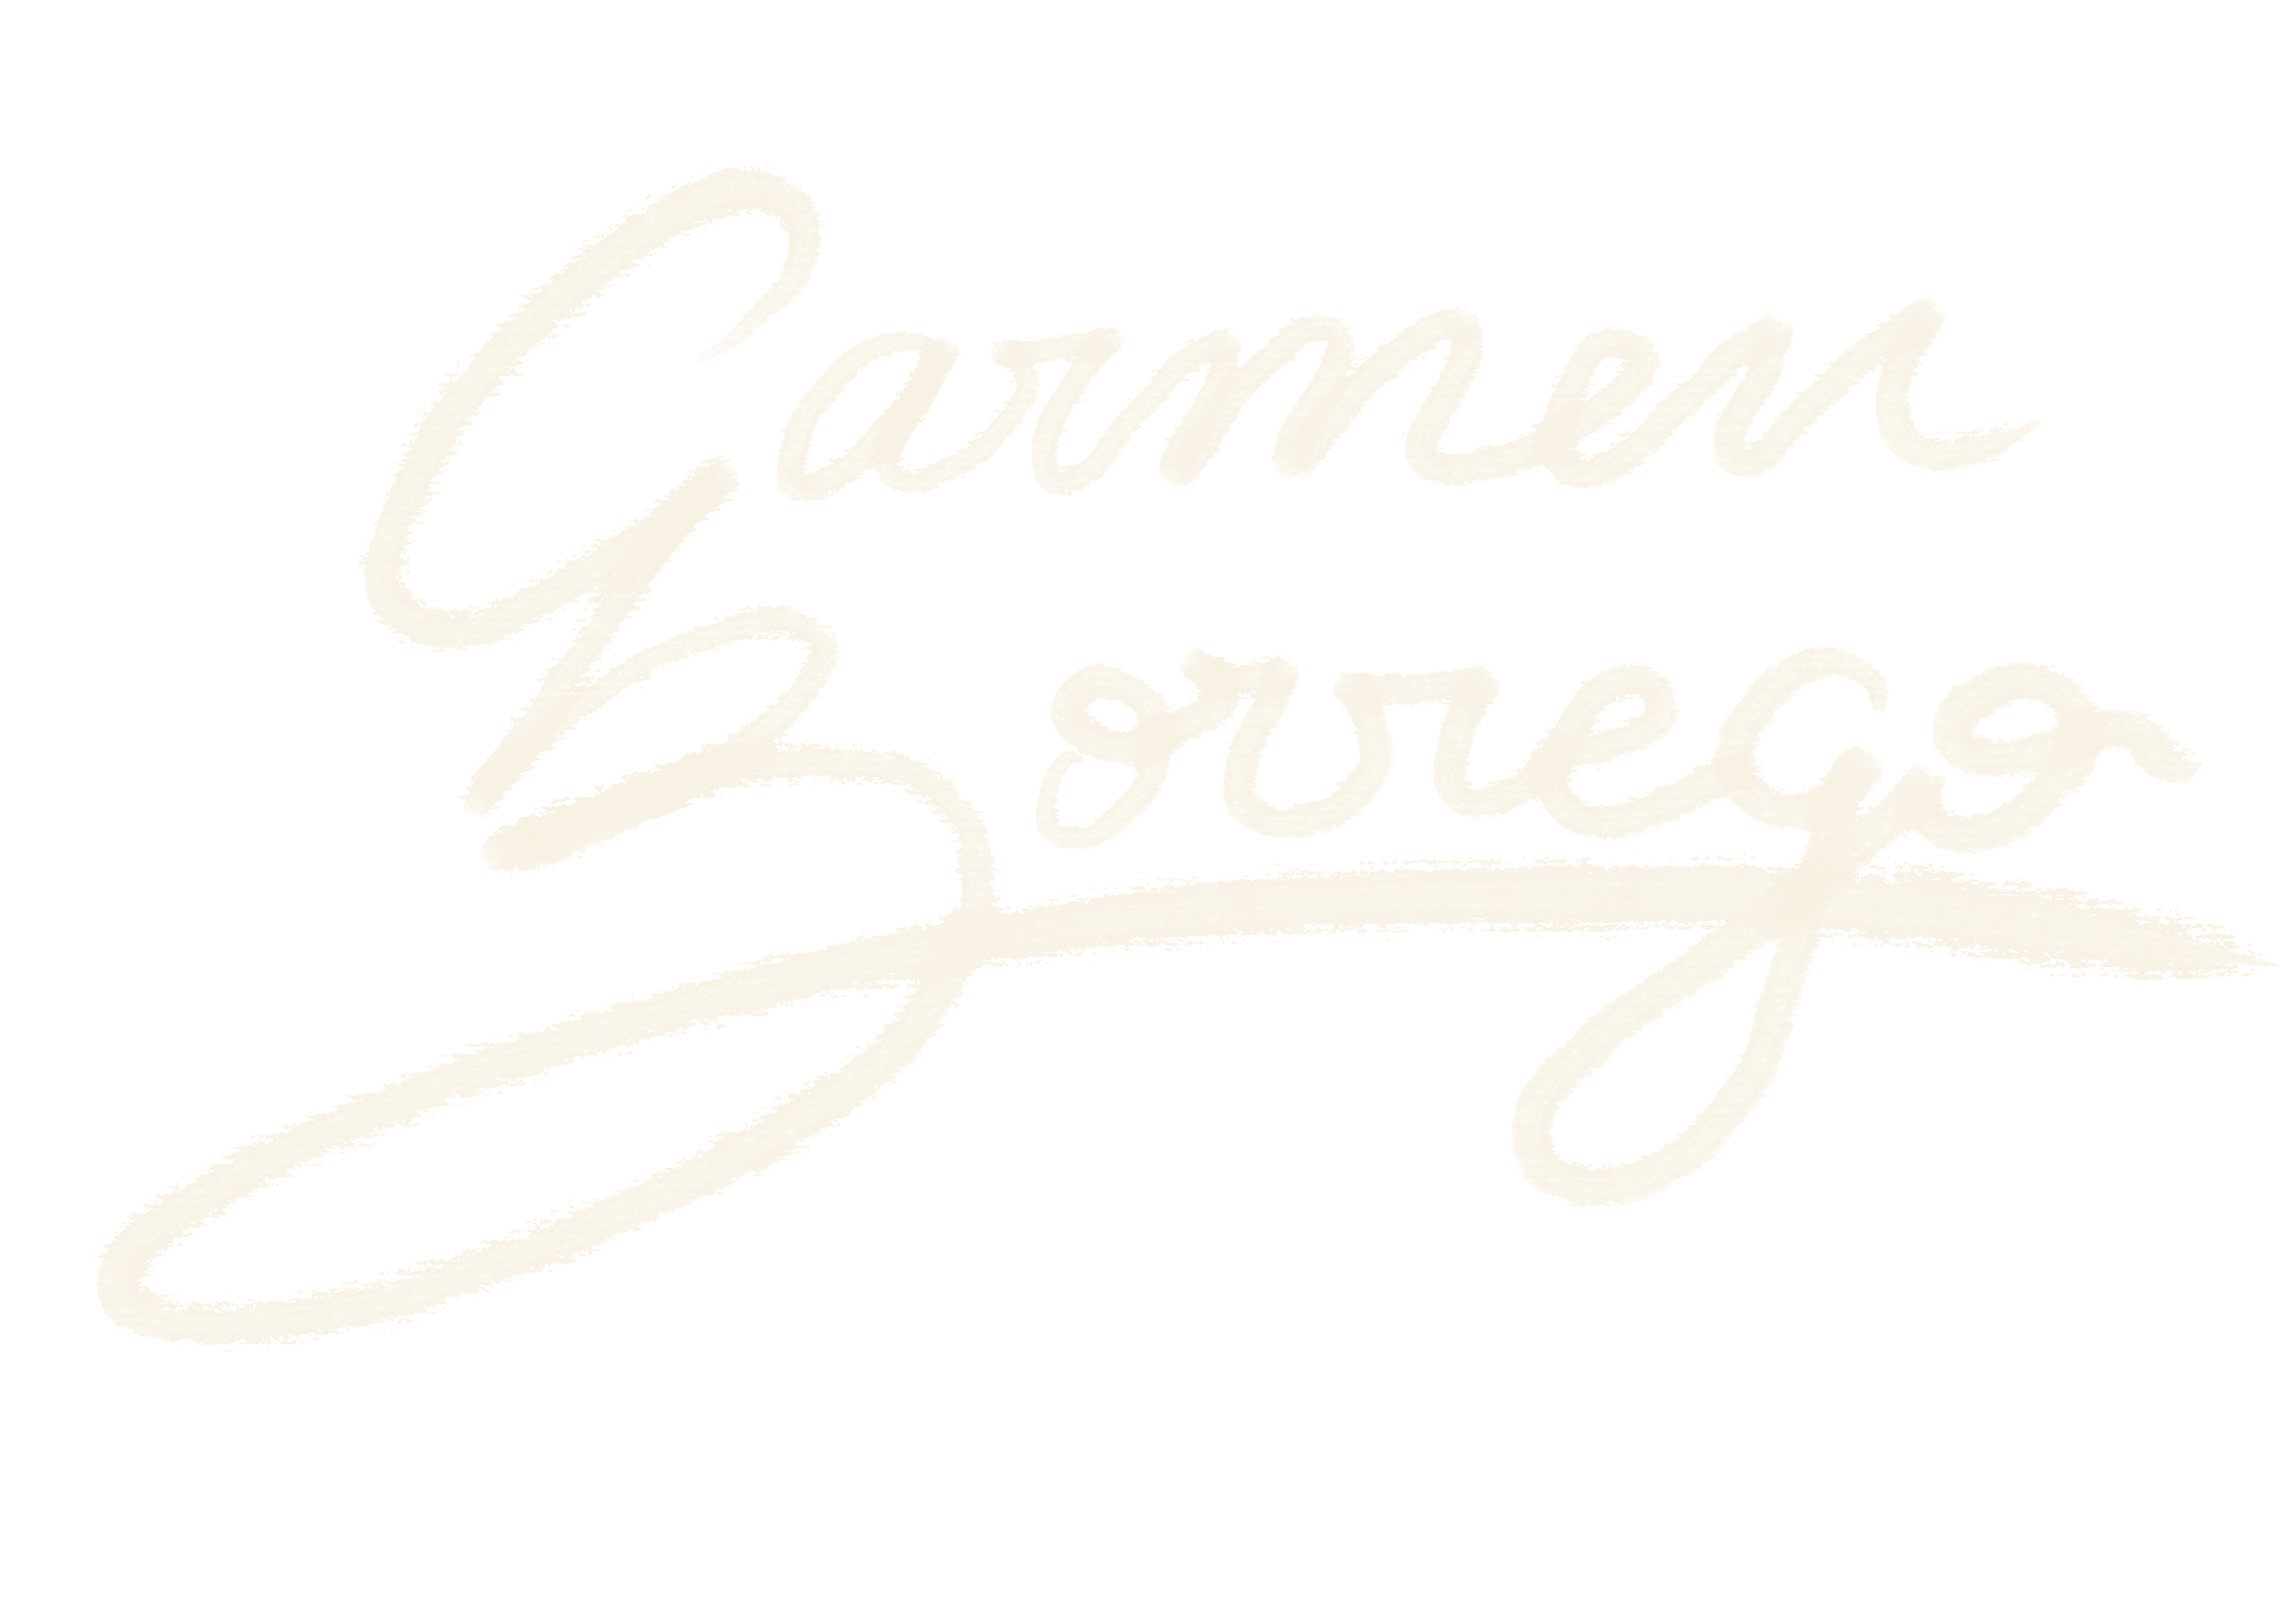
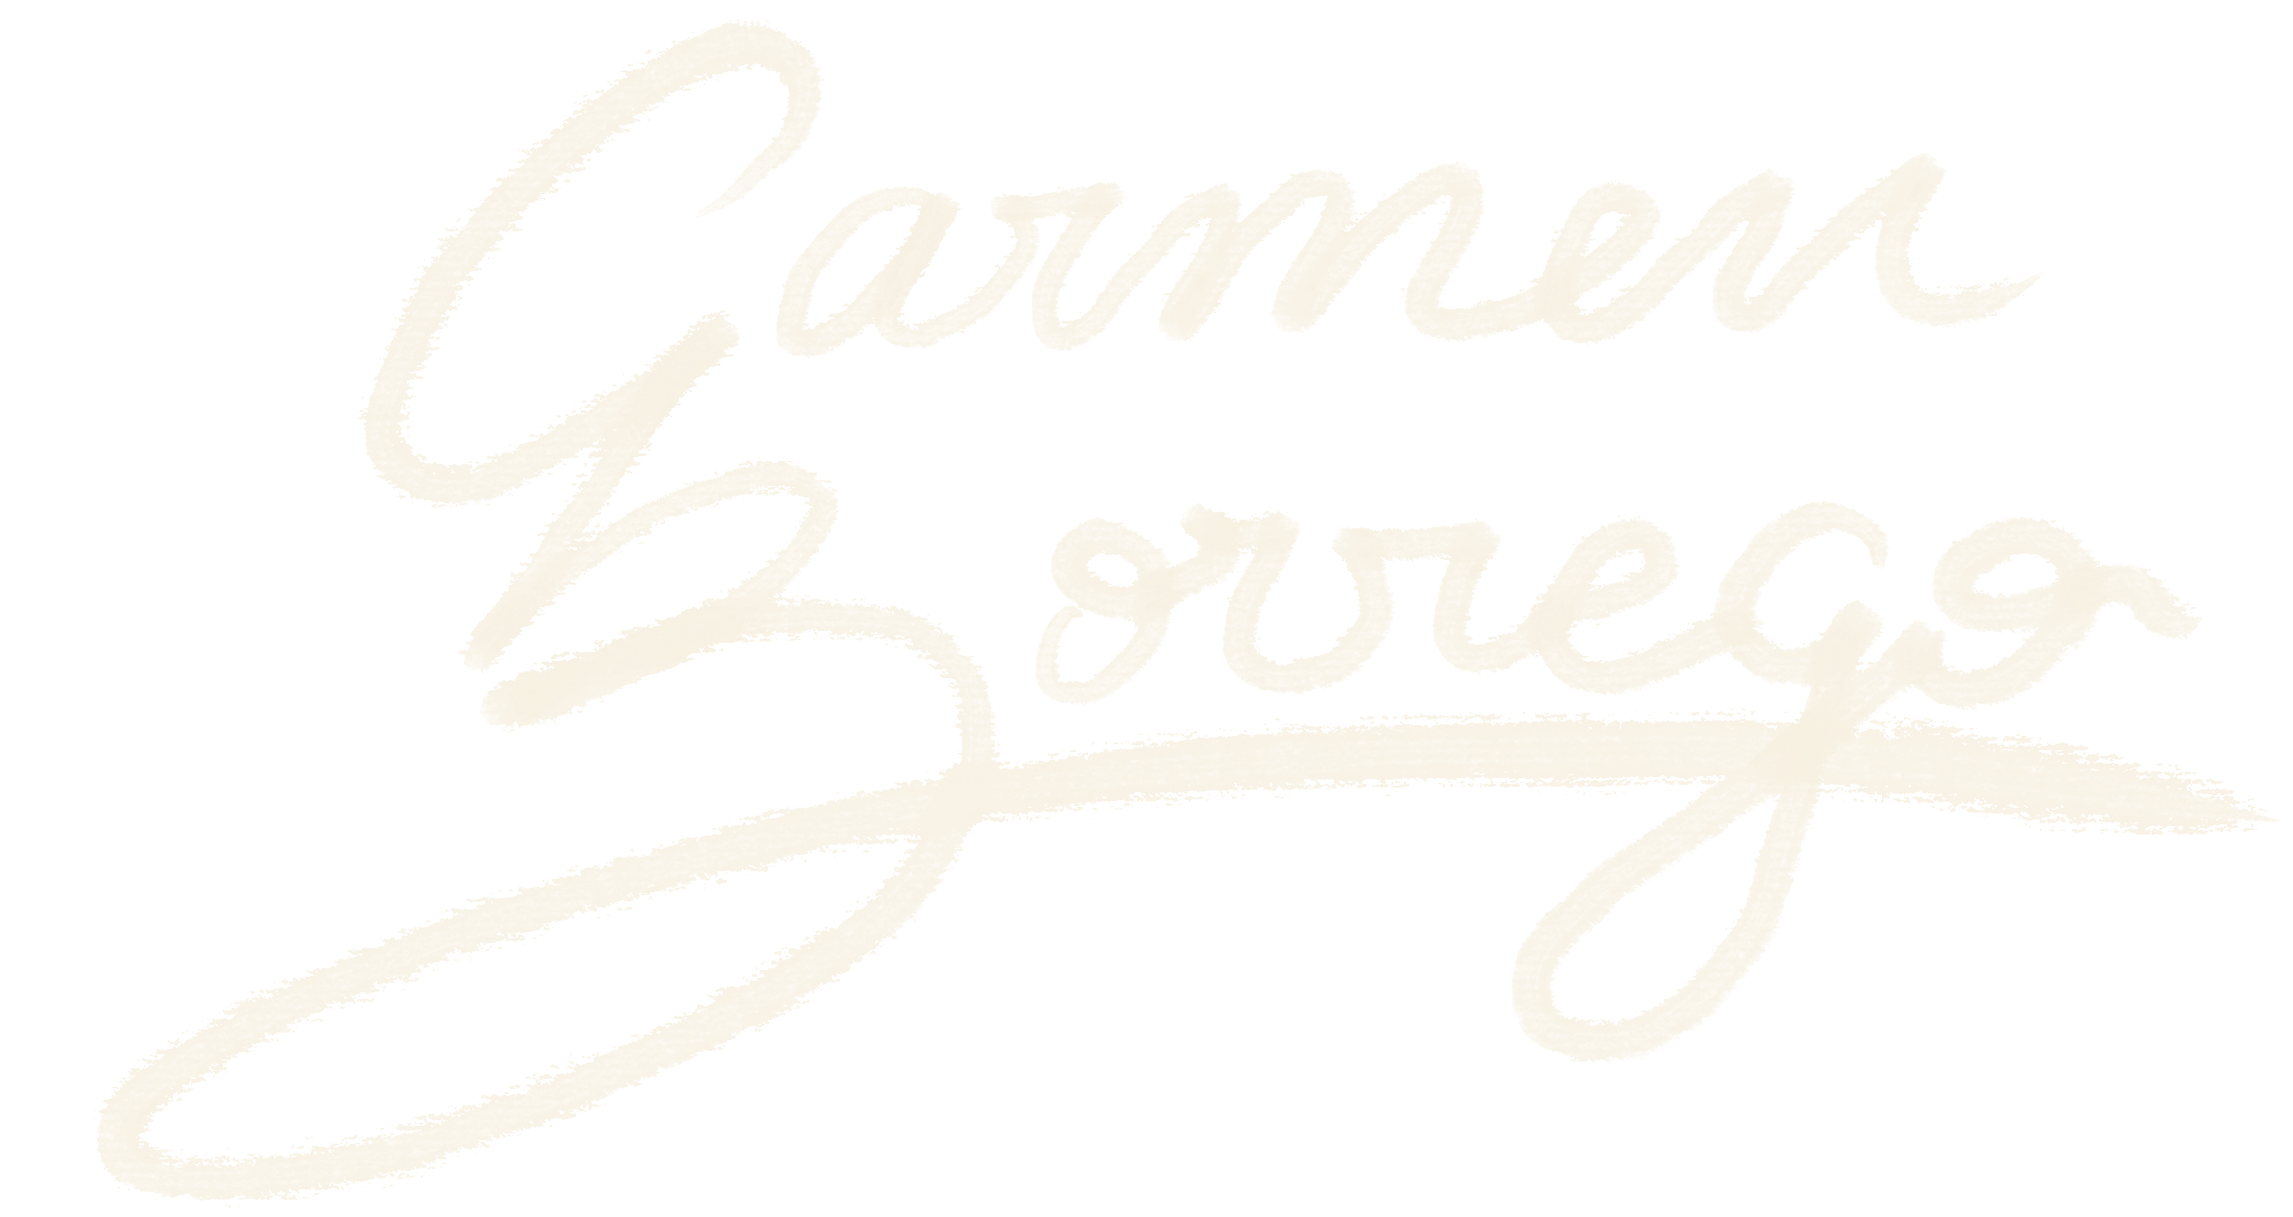
adaptacion topbar tamaño

diff --git a/index.html b/index.html
@@ -41,7 +41,7 @@
                     <p>¡Hola! Soy Carmen Borrego, artista en la Facultad de Bellas Artes en la universidad de Salamanca, con mención en grabado.</p>
                     <p>Me considero una persona creativa, curiosa y trabajadora que ha tenido mucha suerte al poder aprender en la carrera. Mi forma de trabajar es de manera metódica, buscando siempre la perfeción y logrando la pulcritud.</p>
                     <p>Las modalidades con las que trabajo son tanto el dibujo como la fotografía. También trabajo con el grabado; me obsesiona producir en serie y seleccionar los colores y tonos basándome en la teoría del color.</p>
-                    <a href="contacto.html" class="btn-primario">Contactar</a>
+                    <a href="apartados/contacto/contacto.html" class="btn-primario">Contactar</a>
                 </div>
             </div>
         </section>
@@ -98,19 +98,19 @@
                     <div class="collage-item item-reflexiones c-verde">
                         <img src="imagenes/homenajes.jpg" alt="Proyecto sobre homenajes">
                         <div class="overlay">
-                            <h3>Reflexiones</h3>
+                            <h3>homenajes</h3>
                         </div>
                     </div>
                     <div class="collage-item item-digital1 c-rojo">
                         <img src="imagenes/digital(1).png" alt="Proyecto de digital 1">
                         <div class="overlay">
-                            <h3>Digital 1</h3>
+                            <h3>Encargo</h3>
                         </div>
                     </div>
                     <div class="collage-item item-digital2 c-rojo">
                         <img src="imagenes/digital(2).png" alt="Proyecto de digital 2">
                         <div class="overlay">
-                            <h3>Digital 2</h3>
+                            <h3>Encargo</h3>
                         </div>
                     </div>
                 </div>

diff --git a/style.css b/style.css
@@ -72,12 +72,12 @@ h1, h2, h3 {
     display: flex;
     justify-content: space-between;
     align-items: center;
-    height: 100px;
+    height: 60px;
     transition: height 0.3s ease;
 }
 
 .logo-firma {
-    height: 100px; 
+    height: 60px; 
     display: flex;
     align-items: center;
     transition: height 0.3s ease;
@@ -133,7 +133,7 @@ h1, h2, h3 {
 /* CUERPO PRINCIPAL (MAIN) */
 /* ============================================= */
 main {
-    padding-top: 120px;
+    padding-top: 80px;
 }
 
 .presentacion {
